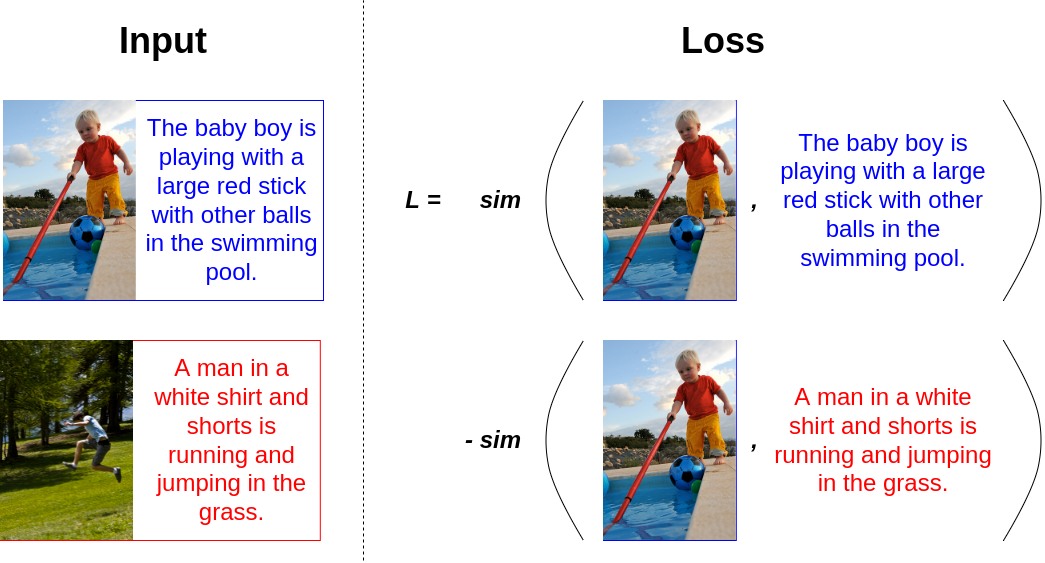
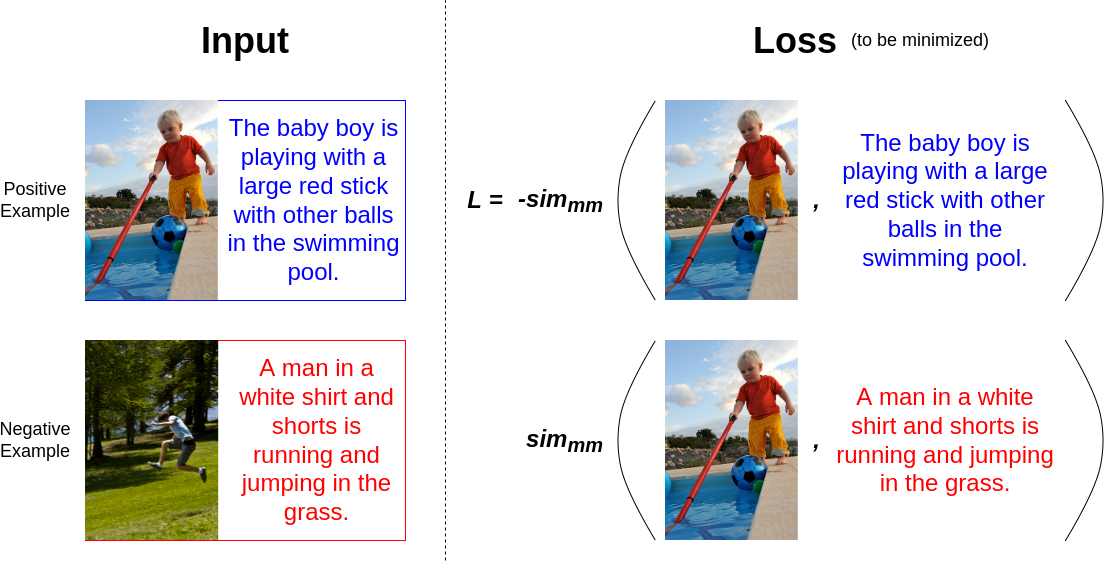
feat: multimodal sim

diff --git a/presentation.tex b/presentation.tex
@@ -87,8 +87,9 @@
   \includegraphics[width=9cm]{images/loss.png}
 \end{frame}
 
-\begin{frame}{Similarità Multi-modale}
-  TODO
+\begin{frame}{Similarità Multimodale}
+  \centering
+  \includegraphics[width=9cm]{images/sim-mm.png}
 \end{frame}
 
 \begin{frame}{First section}
